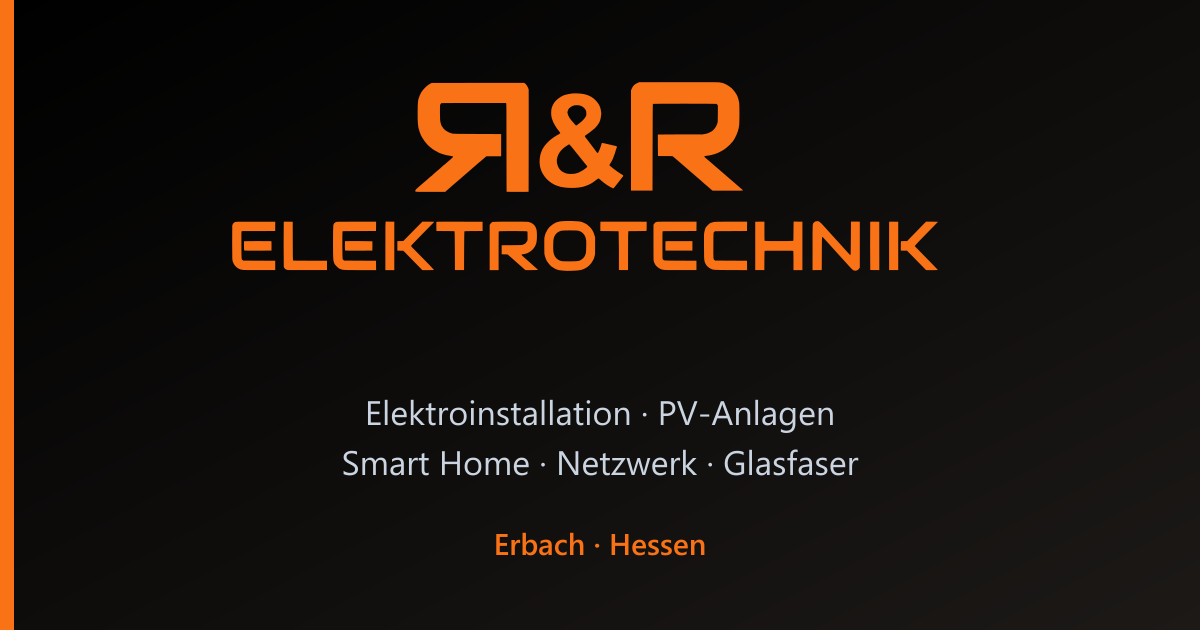
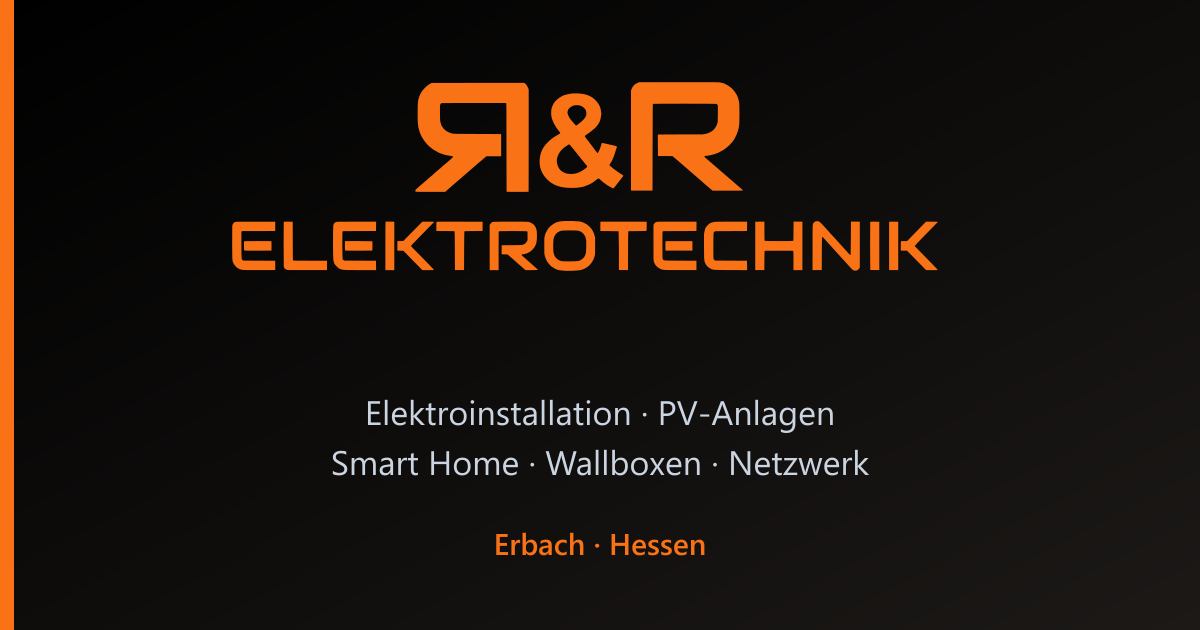
feat: RR mark + text header, Wallboxen replace Glasfaser, drop SAT, new Smart Home image, name Squarespace as host

Changed region(s): [[0.2775, 0.6937, 0.74, 0.754]]

diff --git a/src/datenschutz.html b/src/datenschutz.html
@@ -80,7 +80,9 @@ eleventyComputed:
                         <p class="mt-4">
                             Der Einsatz des Hostproviders erfolgt zum Zweck der sicheren, schnellen und effizienten Bereitstellung unseres Online-Angebots durch einen professionellen Anbieter (Art. 6 Abs. 1 lit. f DSGVO). Mit dem Hostprovider besteht, soweit erforderlich, ein Vertrag über Auftragsverarbeitung nach Art. 28 DSGVO.
                         </p>
-                        {# TODO: name the hosting provider here once hosting is decided #}
+                        <p class="mt-4">
+                            Hostprovider ist Squarespace Ireland Limited, Le Pole House, Ship Street Great, Dublin 8, Irland.
+                        </p>
                     </section>
 
                     <section id="logfiles" class="scroll-mt-24">

diff --git a/eleventy.config.js b/eleventy.config.js
@@ -42,6 +42,7 @@ module.exports = function (eleventyConfig) {
   eleventyConfig.addPassthroughCopy('src/images/og-image.png');
   eleventyConfig.addPassthroughCopy('src/favicon.svg');
   eleventyConfig.addPassthroughCopy('src/logo.svg');
+  eleventyConfig.addPassthroughCopy('src/logo-mark.svg');
   eleventyConfig.addPassthroughCopy('src/favicon-32.png');
   eleventyConfig.addPassthroughCopy('src/apple-touch-icon.png');
   eleventyConfig.watchIgnores.add(OUTPUT_DIR + '/css/style.css');

diff --git a/ARCHITECTURE.md b/ARCHITECTURE.md
@@ -23,9 +23,9 @@ Node 22 in CI (local: any current Node). Open `_site/index.html` directly will l
 content/                 Customer-editable data (see "Content model")
   firma.yml              Company data: name, address, phones, e-mail, register, USt-ID
   startseite.yml         Home page texts
-  leistungen.yml         Intro + the 8 services (title, text, photo name, alt text)
+  leistungen.yml         Intro + the 7 services (title, text, photo name, alt text)
   kontakt.yml            Contact page texts + 3 process steps
-  bilder/                Source photos for the services (+ CREDITS.md, Unsplash)
+  bilder/                Source images for the services (+ CREDITS.md; Unsplash photos, smart-home/wallboxen are illustrations from scripts/generate-service-images.mjs)
   ANLEITUNG.md           German guide for the customer (how to edit, what errors mean)
 src/                     Eleventy input
   _includes/layouts/base.njk      <head> (SEO, Open Graph, JSON-LD), skip link, header, main, footer, scripts
@@ -38,7 +38,7 @@ src/                     Eleventy input
   404.html               Not-found page (noindex)
   sitemap.njk, robots.njk  Generated /sitemap.xml and /robots.txt
   css/input.css          Tailwind entry; js/menu.js (mobile menu), js/contact.js (mailto form)
-  logo.svg (traced from the customer logo), favicon.svg, favicon-32.png, apple-touch-icon.png, images/og-image.png   Brand assets
+  logo.svg (traced from the customer logo; used for the share image), logo-mark.svg (only the "R&R" mark, used in the header next to the text "Elektrotechnik GmbH"), favicon.svg, favicon-32.png, apple-touch-icon.png, images/og-image.png   Brand assets
 scripts/
   load-content.js        Loads/parses content/*.yml (shared by build and validator)
   validate-content.mjs   Required fields, formats, photo existence, alt texts; German messages;
@@ -122,7 +122,7 @@ now on the Leistungen page). All company data was carried over into `content/fir
 
 ## Open items / to confirm with the customer
 
-- Hosting provider is not named in `datenschutz.html` (hidden TODO comment in section 3); Datenschutz states the mailbox is Google (Gmail) – confirm.
+- Hosting provider is Squarespace (named in `datenschutz.html`, section 3); if the CI `deploy` job still targets GitHub Pages, adjust it. Datenschutz states the mailbox is Google (Gmail) – confirm.
 - Legal pages (Impressum, Datenschutz) are drafts: have a lawyer or generator review them before launch.
 - Draft marketing copy to approve: "Warum R&R" points, service descriptions, Kontakt process steps.
 - Missing content (do not invent): customer reviews/ratings, reference projects, service area, opening hours, certifications, founding year.

diff --git a/content/bilder/CREDITS.md b/content/bilder/CREDITS.md
@@ -10,7 +10,7 @@ here for reference). Resized to 900x600 JPEG.
 | planung.jpg | Amsterdam City Archives | photo-1721244654394-36a7bc2da288 |
 | pv-anlagen.jpg | Bill Mead | photo-1624397640148-949b1732bb0a |
 | elektro-installation.jpg | Markus Spiske | photo-1544724569-5f546fd6f2b5 |
-| smart-home.jpg | Dan LeFebvre | photo-1545259741-2ea3ebf61fa3 |
-| sat-anlagen.jpg | maks_d | photo-1736181188872-db061ff70e0e |
 | netzwerk.jpg | Jordan Harrison | photo-1544197150-b99a580bb7a8 |
-| glasfaser.jpg | Kirill Sh | photo-1594915440248-1e419eba6611 |
+
+smart-home.jpg and wallboxen.jpg are original illustrations drawn by `scripts/generate-service-images.mjs`
+(no third-party material; the KNX and Loxone names are trademarks of their owners).
